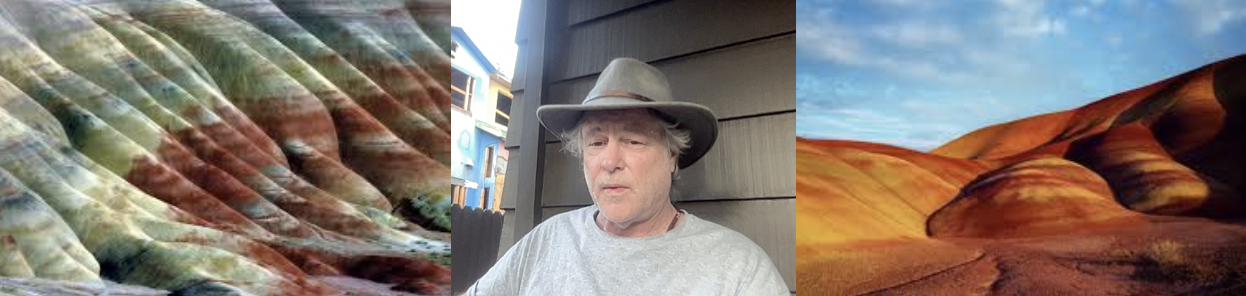
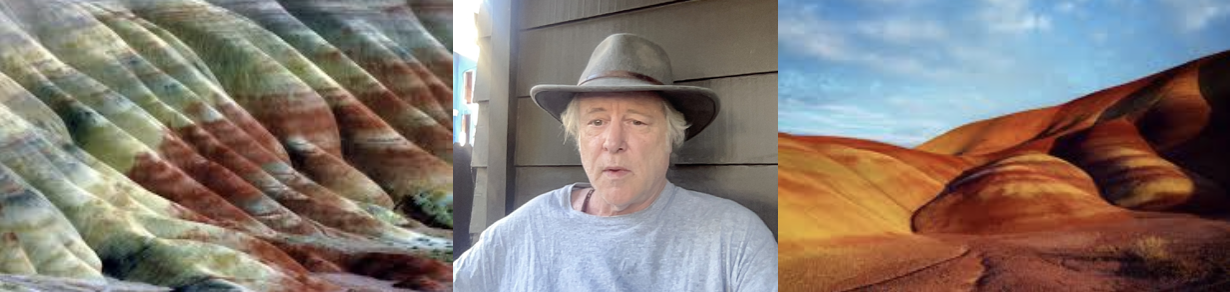
Add files via upload

diff --git a/about.html b/about.html
@@ -70,7 +70,7 @@ text-align: center;
 <p style="text-align:left;">
 </p>
 <p></p>
-<p><img src="Sept_22_2026.jpg" alt="ian" width="200"></p>
+<p><img src="Sept_29_2026.jpg" alt="ian" width="200"></p>
 
 <p>Ian Beardsley has put forward a theory for inertia that predicts the proton, electron, and neutron. The theory is based on a one-second invariant, or 2pi Hz resonance that he has found on the scale of the Solar System, as well. Merging his theory with the David Blackwell’s ODIM-U informational metric they have put forward a solution to the Alcubierre machine that does not require exotic matters; a solution for warp drive, that is, that does not require exotic matters. The 2pi resonance seems to provide a solution for powering the ship with zero point energy, a solid state gravitational floor (gravity without rotational centripetal force), and hyper-relay, the ability to communicate across the galaxy instantaneously.</p>
 
